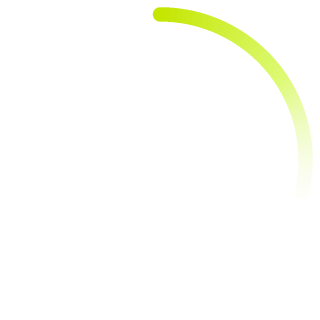
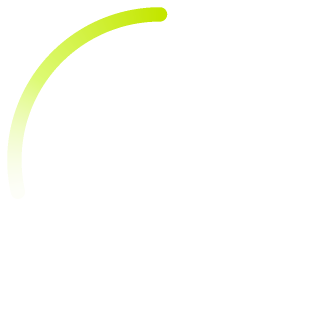
[Front] design: 호가 12시에서 왼쪽으로 뻗도록 방향을 뒤집음
진한 머리가 오른쪽에, 옅은 꼬리가 왼쪽에 남는다.
그라데이션 정도와 트랜지션은 그대로다.

Changed region(s): [[0.0, 0.0, 1.0, 0.5312]]

diff --git a/Frontend/scripts/generate-loading-ring.js b/Frontend/scripts/generate-loading-ring.js
@@ -10,7 +10,7 @@
   - strokeWidth = size * 0.045
   - radius = size / 2 - strokeWidth
   - 색이 있는 구간의 비율은 인자로 받는다. 나머지는 비고 양 끝은 둥글게 처리한다.
-  - 그라데이션은 호를 따라 흐른다. 머리(12시에서 시작하는 쪽)가 가장 진하다.
+  - 그라데이션은 호를 따라 흐른다. 12시에서 시작하는 머리가 가장 진하고 왼쪽으로 갈수록 옅다.
 */
 const fs = require('fs');
 const zlib = require('zlib');
@@ -53,7 +53,12 @@ function gradientAt(t) {
   return { rgb: STOPS[0].rgb, alpha: STOPS[0].alpha };
 }
 
-/** 12시 방향에서 시작해 시계 방향으로 그린다. 호가 짧을 때 맨 위에 놓이도록. */
+/**
+ * 12시 방향에서 시작해 **반시계 방향**으로 그린다.
+ *
+ * 호가 짧을 때 맨 위에 놓이게 하려고 12시에서 시작한다. 뻗어 나가는 쪽을 왼쪽으로 잡으면
+ * 진한 머리가 오른쪽에, 옅은 꼬리가 왼쪽에 남는다.
+ */
 const START_ANGLE = -Math.PI / 2;
 
 /** 색이 있는 구간이 차지하는 각도. */
@@ -73,7 +78,7 @@ function sampleArc(x, y) {
   const half = STROKE / 2;
 
   if (Math.abs(distance - RADIUS) <= half) {
-    let travelled = Math.atan2(cy, cx) - START_ANGLE;
+    let travelled = START_ANGLE - Math.atan2(cy, cx);
     while (travelled < 0) travelled += Math.PI * 2;
 
     if (travelled <= SPAN) return travelled / SPAN;
@@ -82,7 +87,7 @@ function sampleArc(x, y) {
   // 양 끝의 둥근 마개. 머리 쪽은 0, 꼬리 쪽은 1로 친다.
   for (const [angle, t] of [
     [START_ANGLE, 0],
-    [START_ANGLE + SPAN, 1],
+    [START_ANGLE - SPAN, 1],
   ]) {
     const ex = Math.cos(angle) * RADIUS;
     const ey = Math.sin(angle) * RADIUS;
